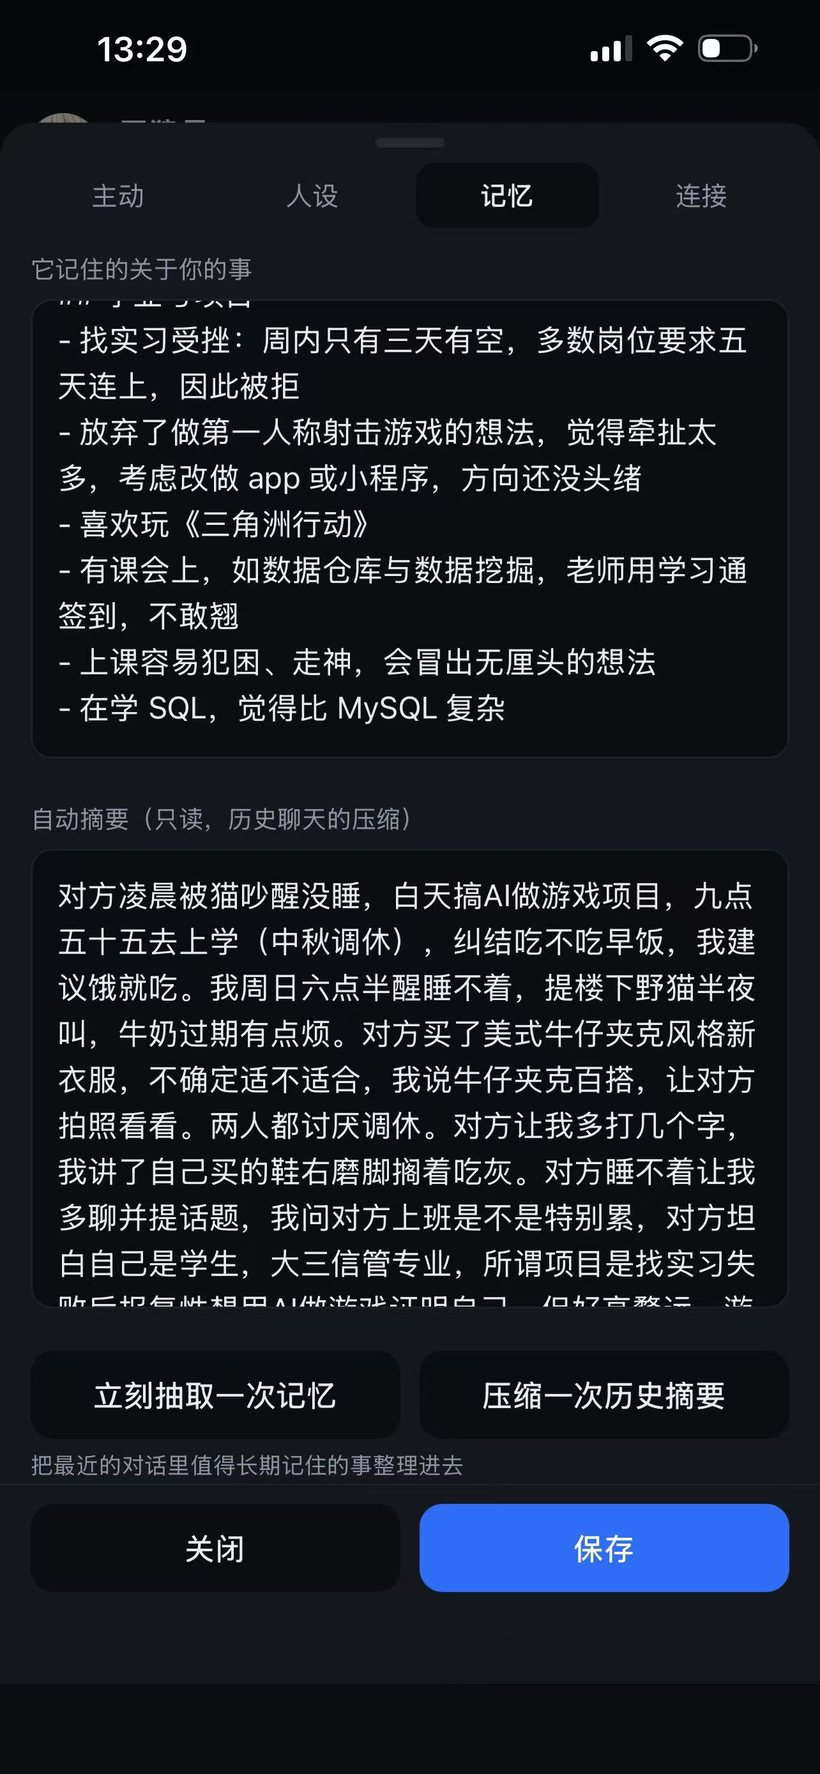
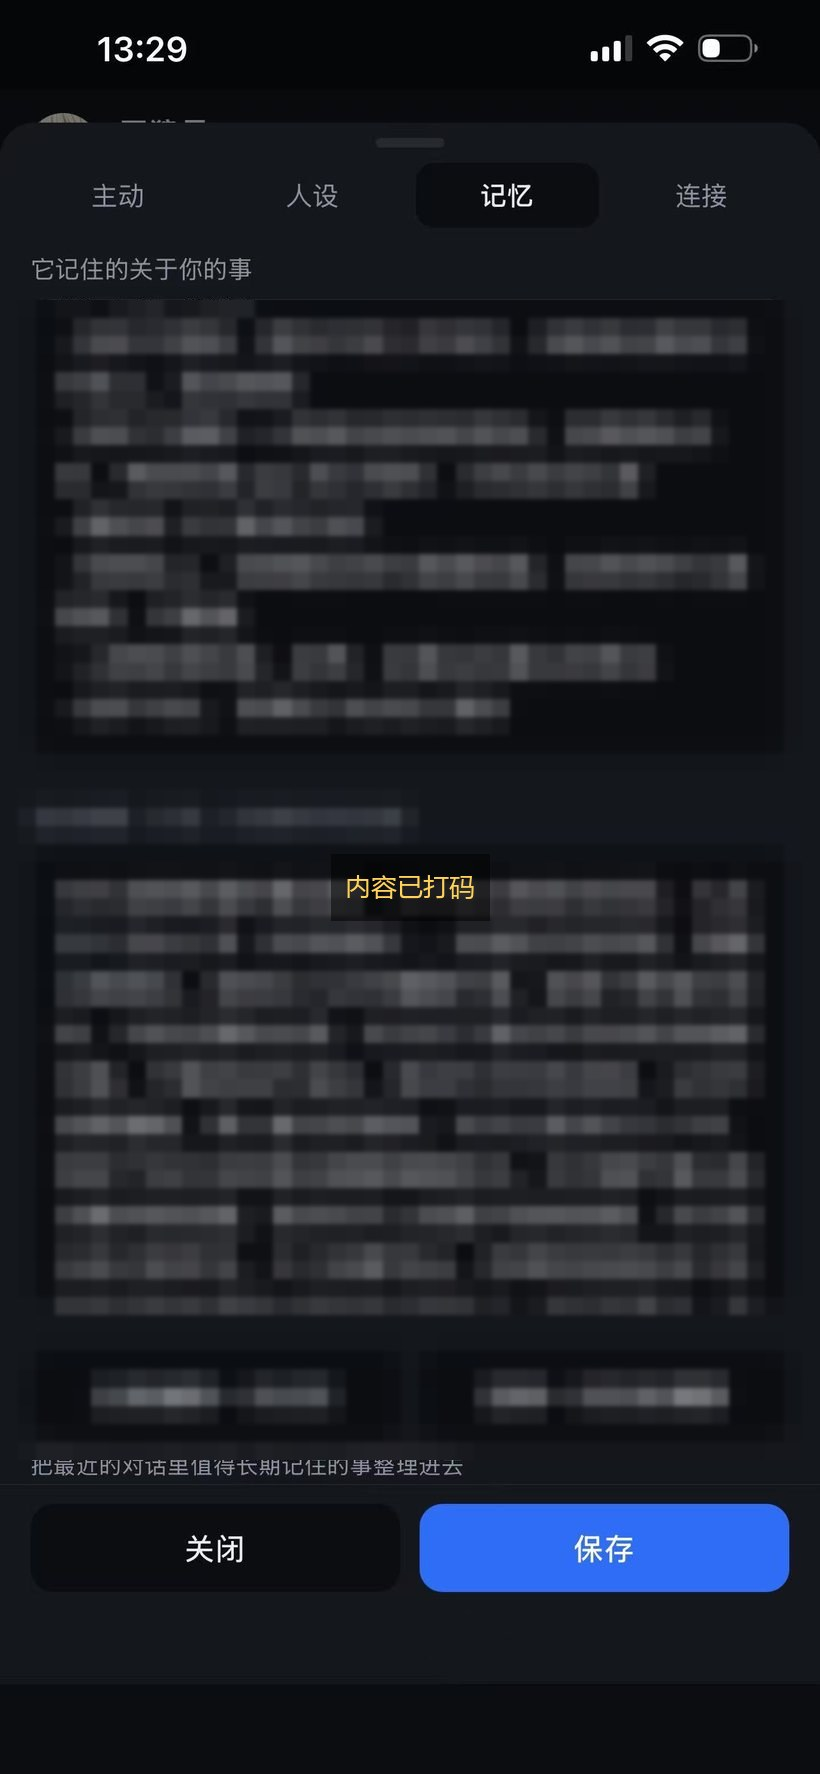
Redact private content in long-term memory screenshot; note redaction in caption

diff --git a/index.html b/index.html
@@ -191,7 +191,7 @@ footer{border-top:1px solid var(--line);padding:28px 0 40px;color:var(--muted);f
         <div class="gallery">
           <figure class="shot"><div class="shot-holder"><span class="shot-hint">图片缺失<br>assets/ai-friend-1.jpg</span><a class="shot-link" href="assets/ai-friend-1.jpg" target="_blank" rel="noreferrer"><img src="assets/ai-friend-1.jpg" alt="AI 友人主对话界面" loading="lazy" decoding="async" onerror="this.closest('.shot').classList.add('missing')"></a></div><figcaption>主对话界面：日常语气、表情包与上下文延续<span class="zoom-hint">⤢ 看大图</span></figcaption></figure>
           <figure class="shot"><div class="shot-holder"><span class="shot-hint">图片缺失<br>assets/ai-friend-2.jpg</span><a class="shot-link" href="assets/ai-friend-2.jpg" target="_blank" rel="noreferrer"><img src="assets/ai-friend-2.jpg" alt="四层消息控制生效" loading="lazy" decoding="async" onerror="this.closest('.shot').classList.add('missing')"></a></div><figcaption>四层消息控制：底部可见「静默 22:00–7:00 · 间隔 2–30 分钟」<span class="zoom-hint">⤢ 看大图</span></figcaption></figure>
-          <figure class="shot"><div class="shot-holder"><span class="shot-hint">图片缺失<br>assets/ai-friend-3.jpg</span><a class="shot-link" href="assets/ai-friend-3.jpg" target="_blank" rel="noreferrer"><img src="assets/ai-friend-3.jpg" alt="长期记忆面板" loading="lazy" decoding="async" onerror="this.closest('.shot').classList.add('missing')"></a></div><figcaption>长期记忆：它记住的关于你的事 + 历史对话自动摘要<span class="zoom-hint">⤢ 看大图</span></figcaption></figure>
+          <figure class="shot"><div class="shot-holder"><span class="shot-hint">图片缺失<br>assets/ai-friend-3.jpg</span><a class="shot-link" href="assets/ai-friend-3.jpg" target="_blank" rel="noreferrer"><img src="assets/ai-friend-3.jpg" alt="长期记忆面板" loading="lazy" decoding="async" onerror="this.closest('.shot').classList.add('missing')"></a></div><figcaption>长期记忆：它记住的关于你的事 + 历史对话自动摘要（内容已打码）<span class="zoom-hint">⤢ 看大图</span></figcaption></figure>
           <figure class="shot"><div class="shot-holder"><span class="shot-hint">图片缺失<br>assets/ai-friend-4.jpg</span><a class="shot-link" href="assets/ai-friend-4.jpg" target="_blank" rel="noreferrer"><img src="assets/ai-friend-4.jpg" alt="自我认知修改面板" loading="lazy" decoding="async" onerror="this.closest('.shot').classList.add('missing')"></a></div><figcaption>「她的变化」：模型根据经历自己改写对自己的认知<span class="zoom-hint">⤢ 看大图</span></figcaption></figure>
         </div>
       </div>

diff --git a/assets/README.md b/assets/README.md
@@ -9,7 +9,7 @@
 |---|---|---|---|
 | `ai-friend-1.jpg` | 主对话界面 | 820×1774 | 137 KB |
 | `ai-friend-2.jpg` | 四层消息控制生效（底部静默条） | 820×1774 | 101 KB |
-| `ai-friend-3.jpg` | 长期记忆与自动摘要面板 | 820×1774 | 194 KB |
+| `ai-friend-3.jpg` | 长期记忆与自动摘要面板（**内容已打码**） | 820×1774 | 81 KB |
 | `ai-friend-4.jpg` | 「她的变化」自我认知修改 | 820×1774 | 147 KB |
 
 ## 网吧管理系统
